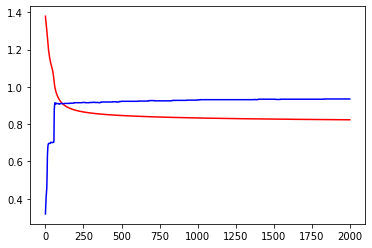
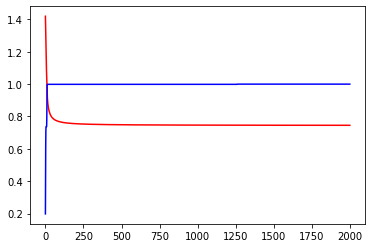
doc updated

diff --git a/02-FFN-pytorch/README.md b/02-FFN-pytorch/README.md
@@ -1,6 +1,7 @@
-# Pytorch Feed Forward Networks Workflow
+# Building Feed Forward Networks with `Pytorch`
 
-- [Pytorch Feed Forward Networks Workflow](#pytorch-feed-forward-networks-workflow)
+- [Building Feed Forward Networks with `Pytorch`](#building-feed-forward-networks-with-pytorch)
+  - [Linearity vs Non-Linearity](#linearity-vs-non-linearity)
   - [Generate Dataset](#generate-dataset)
   - [Using torch tensor and autograd](#using-torch-tensor-and-autograd)
   - [Using `NN.Parameter`](#using-nnparameter)
@@ -20,15 +21,36 @@ import math
 import numpy as np
 import matplotlib.pyplot as plt
 import matplotlib
+from sklearn.datasets import make_blobs
+from sklearn.model_selection import train_test_split
+import torch.nn as nn
+from torch import optim
 ```
+
+## Linearity vs Non-Linearity
+
+<p align="center">
+<img src="https://raw.githubusercontent.com/dev-SR/Deep-Learning/main/02-FFN-pytorch/img/lvsnl.png" alt="ShapeCalculation.png" width="800px">
+</p>
 
 ## Generate Dataset
 
 
 ```python
-from sklearn.datasets import make_blobs
-data,labels = make_blobs(n_samples=1000,centers=4,n_features=2,random_state=0)
+NUM_FEATURES = 2
+NUM_CLASSES = 4
+RANDOM_SEED = 42
+data,labels = make_blobs(n_samples=1000,
+                         n_features=NUM_FEATURES,
+                         centers=NUM_CLASSES,
+                         random_state=RANDOM_SEED
+                         )
 print(data.shape,labels.shape)
+
+# Convert to tensors
+data = torch.from_numpy(data).type(torch.float)
+labels = torch.from_numpy(labels).type(torch.LongTensor)
+
 ```
 
     (1000, 2) (1000,)
@@ -37,35 +59,25 @@ print(data.shape,labels.shape)
 
 ```python
 # mymap = matplotlib.colors.LinearSegmentedColormap.from_list("",['red','yellow','green','blue'])
-plt.scatter(data[:,0],data[:,1],c=labels)#,cmap=mymap)
+plt.scatter(data[:,0],data[:,1],c=labels,cmap=plt.cm.RdYlBu)#,cmap=mymap)
 ```
 
 
 
 
-    <matplotlib.collections.PathCollection at 0x7f8618347700>
+    <matplotlib.collections.PathCollection at 0x7f6150107ac0>
 
 
 
 
 
-![png](README_files/README_6_1.png)
+![png](README_files/README_8_1.png)
 
 
 
 
 ```python
-from sklearn.model_selection import train_test_split
-X_train,X_test,y_train,y_test = train_test_split(data,labels,test_size=0.2,random_state=0)
-print(X_train.shape,X_test.shape,y_train.shape,y_test.shape)
-```
-
-    (800, 2) (200, 2) (800,) (200,)
-
-
-
-```python
-X_train,X_test,y_train,y_test = map(torch.tensor,(X_train,X_test,y_train,y_test))
+X_train,X_test,y_train,y_test = train_test_split(data,labels,test_size=-1.2,random_state=RANDOM_SEED)
 print(X_train.shape,X_test.shape,y_train.shape,y_test.shape)
 ```
 
@@ -154,23 +166,18 @@ print(f"Loss before training : {loss_err[0]}")
 print(f"Loss after training : {loss_err[-1]}")
 ```
 
-    Loss before training : 1.4318073987960815
-    Loss after training : 0.8514120578765869
+    Loss before training : 1.4541833400726318
+    Loss after training : 0.7496986389160156
 
 
 
 
-![png](README_files/README_14_1.png)
+![png](README_files/README_15_1.png)
 
 
 
 ## Using `NN.Parameter`
 
-
-
-```python
-import torch.nn as nn
-```
 
 
 ```python
@@ -221,14 +228,12 @@ model = FirstNetwork()
 
 
 ```python
-X_train = X_train.float()
-Y_train = y_train.long()
 def fit(epochs=2000,learning_rate=1):
     loss_err = []
     acc_err = []
     for epoch in range(epochs):
         y_hat = model(X_train)
-        loss = Fn.cross_entropy(y_hat,y_train.long())
+        loss = Fn.cross_entropy(y_hat,y_train)
         loss_err.append(loss.item())
         acc_err.append(accuracy_fn(y_hat,y_train))
 
@@ -262,8 +267,8 @@ fit()
 
 ```
 
-    Loss before training : 1.3785487413406372
-    Loss after training : 0.8234154582023621
+    Loss before training : 1.4198334217071533
+    Loss after training : 0.7454500794410706
 
 
 
@@ -273,12 +278,6 @@ fit()
 
 
 ## Using `NN.Linear` and `Optim`
-
-
-```python
-import torch.nn as nn
-from torch import optim
-```
 
 
 ```python
@@ -310,15 +309,13 @@ model = NNLinearNetwork_v1()
 
 
 ```python
-X_train = X_train.float()
-Y_train = y_train.long()
 def fit(epochs=2000,learning_rate=1):
     loss_err = []
     acc_err = []
     opt = optim.SGD(model.parameters(),lr=learning_rate)
     for epoch in range(epochs):
         y_hat = model(X_train)
-        loss = Fn.cross_entropy(y_hat,y_train.long())
+        loss = Fn.cross_entropy(y_hat,y_train)
         loss_err.append(loss.item())
         acc_err.append(accuracy_fn(y_hat,y_train))
 
@@ -342,36 +339,17 @@ fit()
 
 ```
 
-    Loss before training : 1.3929063081741333
-    Loss after training : 0.8134840130805969
+    Loss before training : 1.4017045497894287
+    Loss after training : 0.7455630302429199
 
 
 
 
-![png](README_files/README_23_1.png)
+![png](README_files/README_22_1.png)
 
 
 
 ## Using `NN.Sequential`
-
-
-```python
-import torch.nn as nn
-from torch import optim
-```
-
-
-```python
-X_train,X_test,y_train,y_test = map(torch.tensor,(X_train,X_test,y_train,y_test))
-print(X_train.shape,X_test.shape,y_train.shape,y_test.shape)
-```
-
-    torch.Size([800, 2]) torch.Size([200, 2]) torch.Size([800]) torch.Size([200])
-
-
-    <ipython-input-46-4cb4a68d1b38>:1: UserWarning: To copy construct from a tensor, it is recommended to use sourceTensor.clone().detach() or sourceTensor.clone().detach().requires_grad_(True), rather than torch.tensor(sourceTensor).
-      X_train,X_test,y_train,y_test = map(torch.tensor,(X_train,X_test,y_train,y_test))
-
 
 
 ```python
@@ -404,7 +382,7 @@ def fit(x,y,model,opt,loss_fn,epochs=2000,log=False):
     loss_err = []
     acc_err = []
     for epoch in range(epochs):
-        loss =loss_fn(model(x),y.long())
+        loss =loss_fn(model(x),y)
         loss_err.append(loss.item())
         acc_err.append(accuracy_fn(y_hat,y_train))
 
@@ -429,25 +407,17 @@ fit(x=X_train,y=y_train,model=model,opt=opt,loss_fn=loss_fn,log=True)
 
 ```
 
-    Loss before training : 1.3929063081741333
-    Loss after training : 0.8134840130805969
+    Loss before training : 1.4017045497894287
+    Loss after training : 0.7455630302429199
 
 
 
 
-![png](README_files/README_28_1.png)
+![png](README_files/README_25_1.png)
 
 
 
 ## Running in GPU
-
-
-```python
-import torch.nn as nn
-from torch import optim
-import time
-
-```
 
 
 ```python
@@ -473,7 +443,7 @@ def fit(x,y,model,opt,loss_fn,epochs=2000,log=False):
     loss_err = []
     acc_err = []
     for epoch in range(epochs):
-        loss =loss_fn(model(x),y.long())
+        loss =loss_fn(model(x),y)
         loss_err.append(loss.item())
 
         loss.backward()
@@ -487,13 +457,12 @@ def fit(x,y,model,opt,loss_fn,epochs=2000,log=False):
 
 
 ```python
-# device = "cuda" if torch.cuda.is_available() else "cpu"
 device = torch.device("cpu") #cuda #cpu
 print(device)
 
 X_train = X_train.to(device)
 y_train = y_train.to(device)
-model = NNLinearNetwork_v3()
+model = NNLinearNetwork_v3().to(device)
 model.to(device)
 ```
 
@@ -516,33 +485,33 @@ model.to(device)
 
 
 ```python
+%%time
 loss_fn = Fn.cross_entropy
 opt = optim.SGD(model.parameters(),lr=1)
-tic = time.time()
 fit(x=X_train,y=y_train,model=model,opt=opt,loss_fn=loss_fn)
-toc = time.time()
-print(f"Time taken {toc-tic}")
+
 ```
 
-    Time taken 86.75285720825195
+    CPU times: user 54.1 s, sys: 6.4 s, total: 1min
+    Wall time: 1min
 
 
 
 ```python
-device = "cuda" if torch.cuda.is_available() else "cpu"
-# device = torch.device("cpu") #cuda #cpu
+%%time
+device = torch.device("cuda" if torch.cuda.is_available() else "cpu")
 print(device)
 
 X_train = X_train.to(device)
 y_train = y_train.to(device)
-model = NNLinearNetwork_v3()
-model.to(device)
-tic = time.time()
+model = NNLinearNetwork_v3().to(device)
+
 fit(x=X_train,y=y_train,model=model,opt=opt,loss_fn=loss_fn)
-toc = time.time()
-print(f"Time taken {toc-tic}")
 ```
 
     cuda
-    Time taken 2.0758891105651855
+    CPU times: user 2.03 s, sys: 88.5 ms, total: 2.12 s
+    Wall time: 2.11 s
+
+
 
